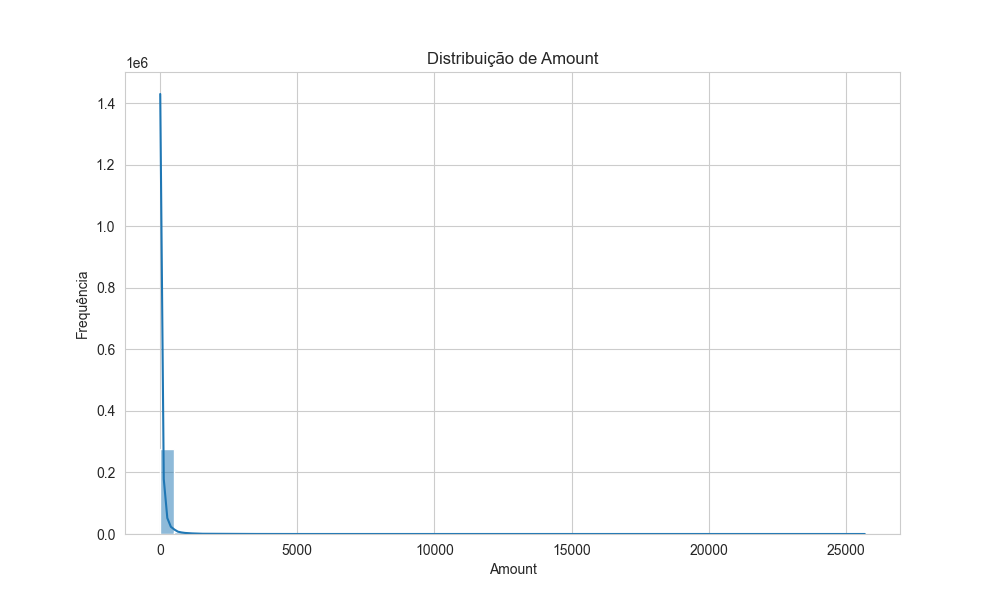
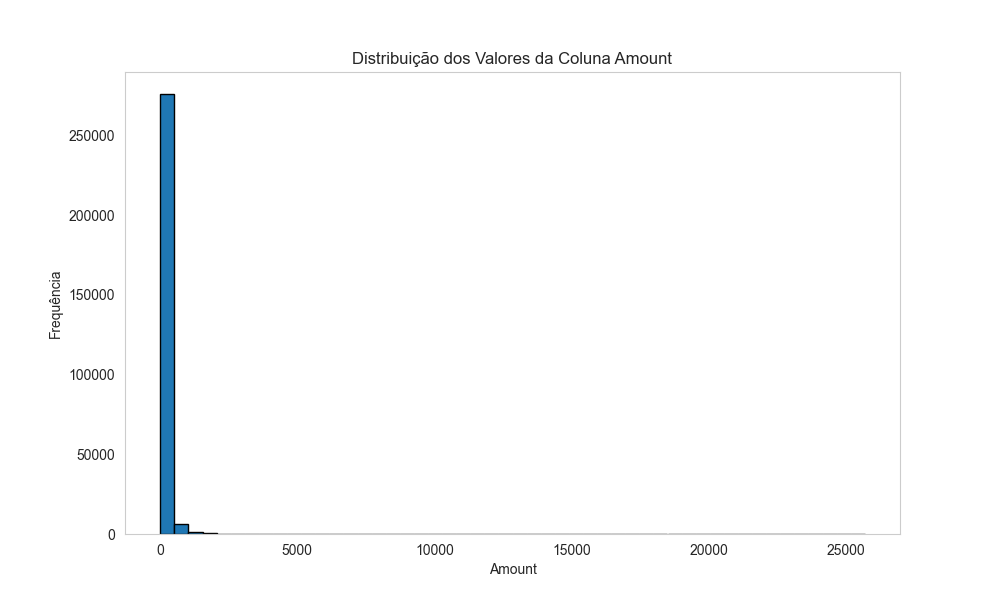
Enhance EDA agent documentation and conclusions handling
- Updated `eda_agent.py` to improve guidelines for saving and retrieving conclusions, emphasizing the importance of specific, data-driven insights.
- Modified the response logic for the 'conclusoes' query to ensure a thorough analysis is conducted if no conclusions are saved.
- Added a new example execution image to the README for better user understanding.
- Removed outdated graphics and added new visualizations to the `graficos/` directory, ensuring relevant data representation.
- Corrected image paths in the report for accurate referencing.

diff --git a/eda_agent.py b/eda_agent.py
@@ -266,8 +266,10 @@ eda_agent = Agent(
         "   - Identificar variáveis mais/menos correlacionadas",
         "",
         "E) CONCLUSÕES:",
-        "   - Sempre salve conclusões importantes com save_conclusion",
-        "   - Ao final, use get_conclusions para apresentar um resumo",
+        "   - SEMPRE salve conclusões importantes com save_conclusion após cada análise significativa",
+        "   - Quando o usuário perguntar sobre conclusões, use get_conclusions para recuperar e apresentar",
+        "   - Se não houver conclusões salvas, faça uma análise rápida dos dados e salve pelo menos 3-5 conclusões principais",
+        "   - Conclusões devem ser específicas, baseadas em dados e incluir números/estatísticas quando relevante",
         "",
         "DIRETRIZES PARA GRÁFICOS:",
         "   - Sempre salve gráficos em 'graficos/' com nomes descritivos",
@@ -293,6 +295,12 @@ eda_agent = Agent(
         "   - Apresente números e estatísticas de forma organizada",
         "   - Relacione descobertas com o contexto do problema",
         "   - NÃO pergunte ao usuário o que fazer - execute a análise diretamente",
+        "",
+        "QUANDO PERGUNTADO SOBRE CONCLUSÕES:",
+        "   - Se houver conclusões salvas: use get_conclusions e apresente um resumo organizado",
+        "   - Se NÃO houver conclusões: faça análises rápidas dos dados principais e salve conclusões importantes",
+        "   - Sempre explique o significado das conclusões e como elas se relacionam",
+        "   - Inclua insights práticos e recomendações quando apropriado",
     ],
 )
 
@@ -343,7 +351,7 @@ def main():
         
         if pergunta.lower() == 'conclusoes':
             print("\n📊 Buscando conclusões salvas...")
-            response = eda_agent.run("O dataset já está carregado. Apresente um resumo completo de todas as conclusões encontradas nas análises realizadas.")
+            response = eda_agent.run("O dataset já está carregado. Primeiro verifique se há conclusões salvas. Se não houver, faça análises rápidas dos dados principais (distribuições, estatísticas descritivas, outliers, correlações) e salve pelo menos 5 conclusões importantes. Depois apresente um resumo completo e explicado de todas as conclusões encontradas.")
         else:
             print(f"\n🔍 Analisando...")
             # Adiciona contexto de que o dataset já está carregado

diff --git a/relatorios/Agentes Autônomos – Relatório da Atividade Extra.md b/relatorios/Agentes Autônomos – Relatório da Atividade Extra.md
@@ -190,7 +190,7 @@ A distribuição de `Amount` é altamente assimétrica (positiva), com:
 
 **Gráfico Gerado**: `graficos/distribuicao_amount.png`
 
-![Distribuição de Amount](graficos/distribuicao_amount.png)
+![Distribuição de Amount](../graficos/distribuicao_amount.png)
 
 **Conclusão**: A distribuição mostra que a maioria das transações tem valores relativamente baixos, com uma cauda longa à direita indicando a presença de transações com valores muito altos.
 

diff --git a/README.md b/README.md
@@ -142,6 +142,14 @@ Digite `conclusoes` para ver um resumo de todas as análises realizadas.
 
 Digite `sair` para encerrar o programa.
 
+### 📸 Exemplo de Execução
+
+Abaixo está um exemplo visual do agente em execução:
+
+![Exemplo de Execução do Agente](exemple-run%20-agent.png)
+
+*Interface interativa do agente mostrando o carregamento do dataset e perguntas do usuário*
+
 ---
 
 ## 📈 Gráficos Gerados
